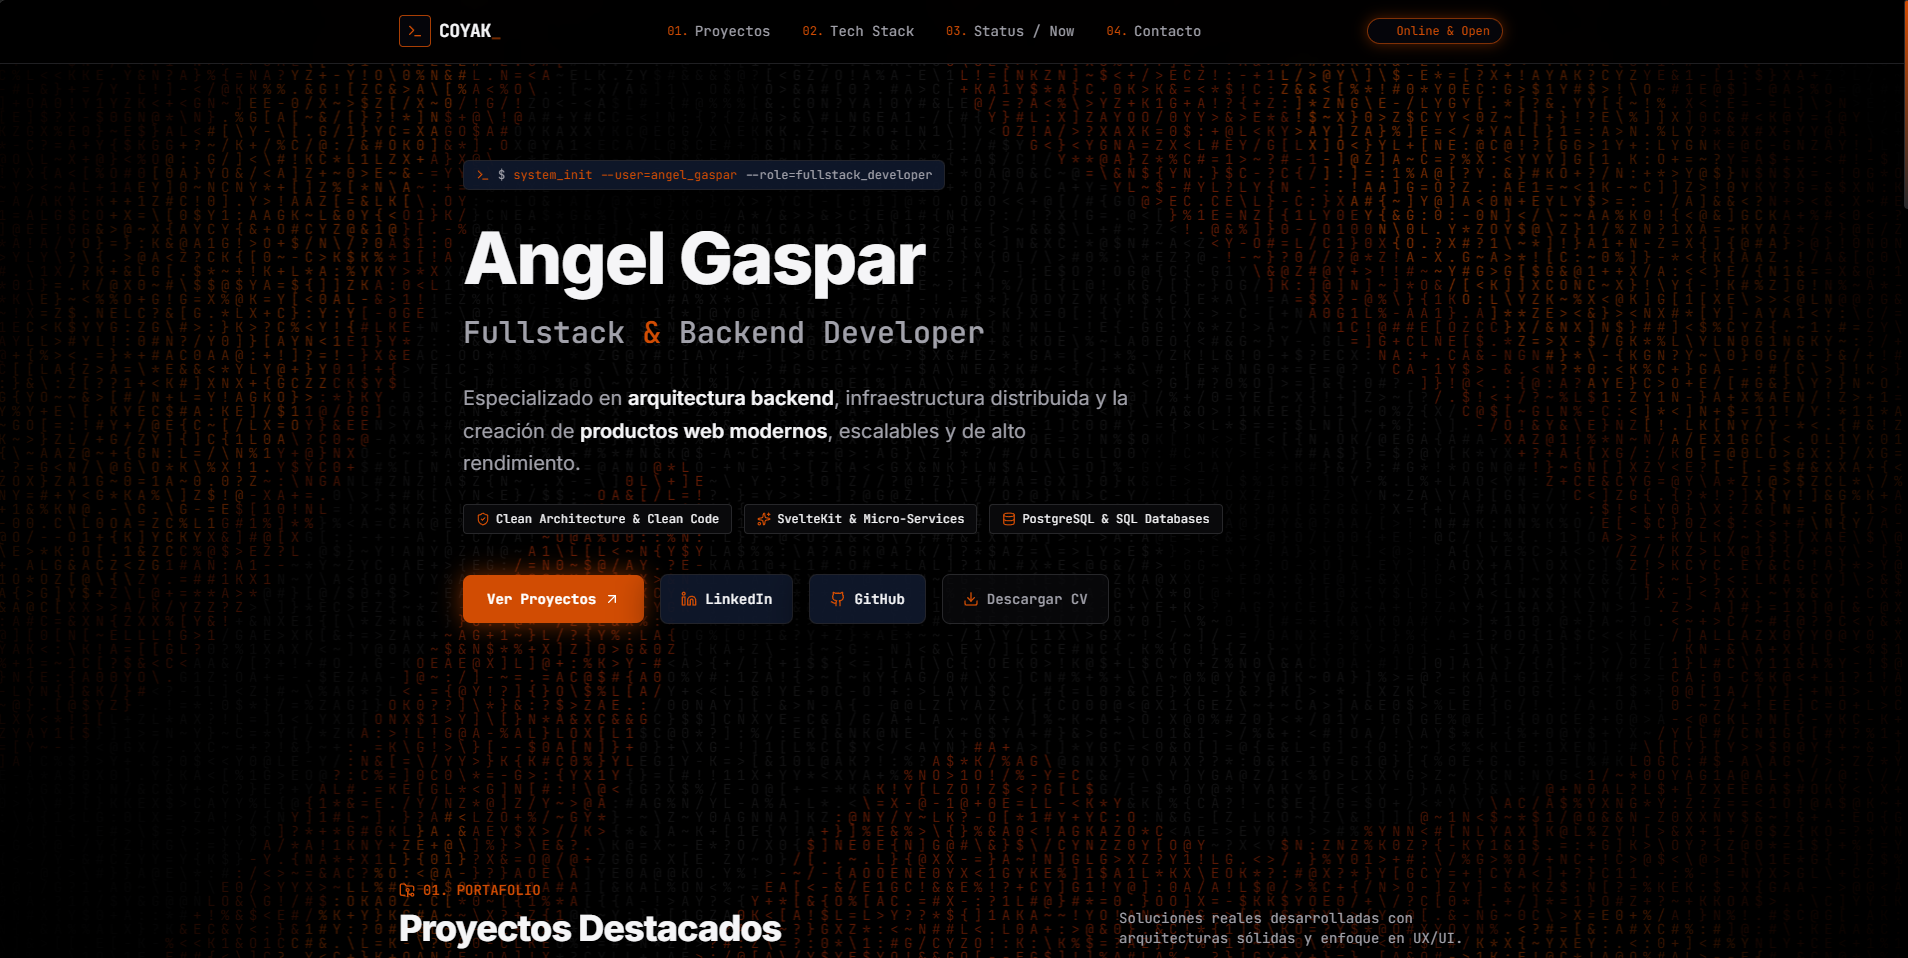
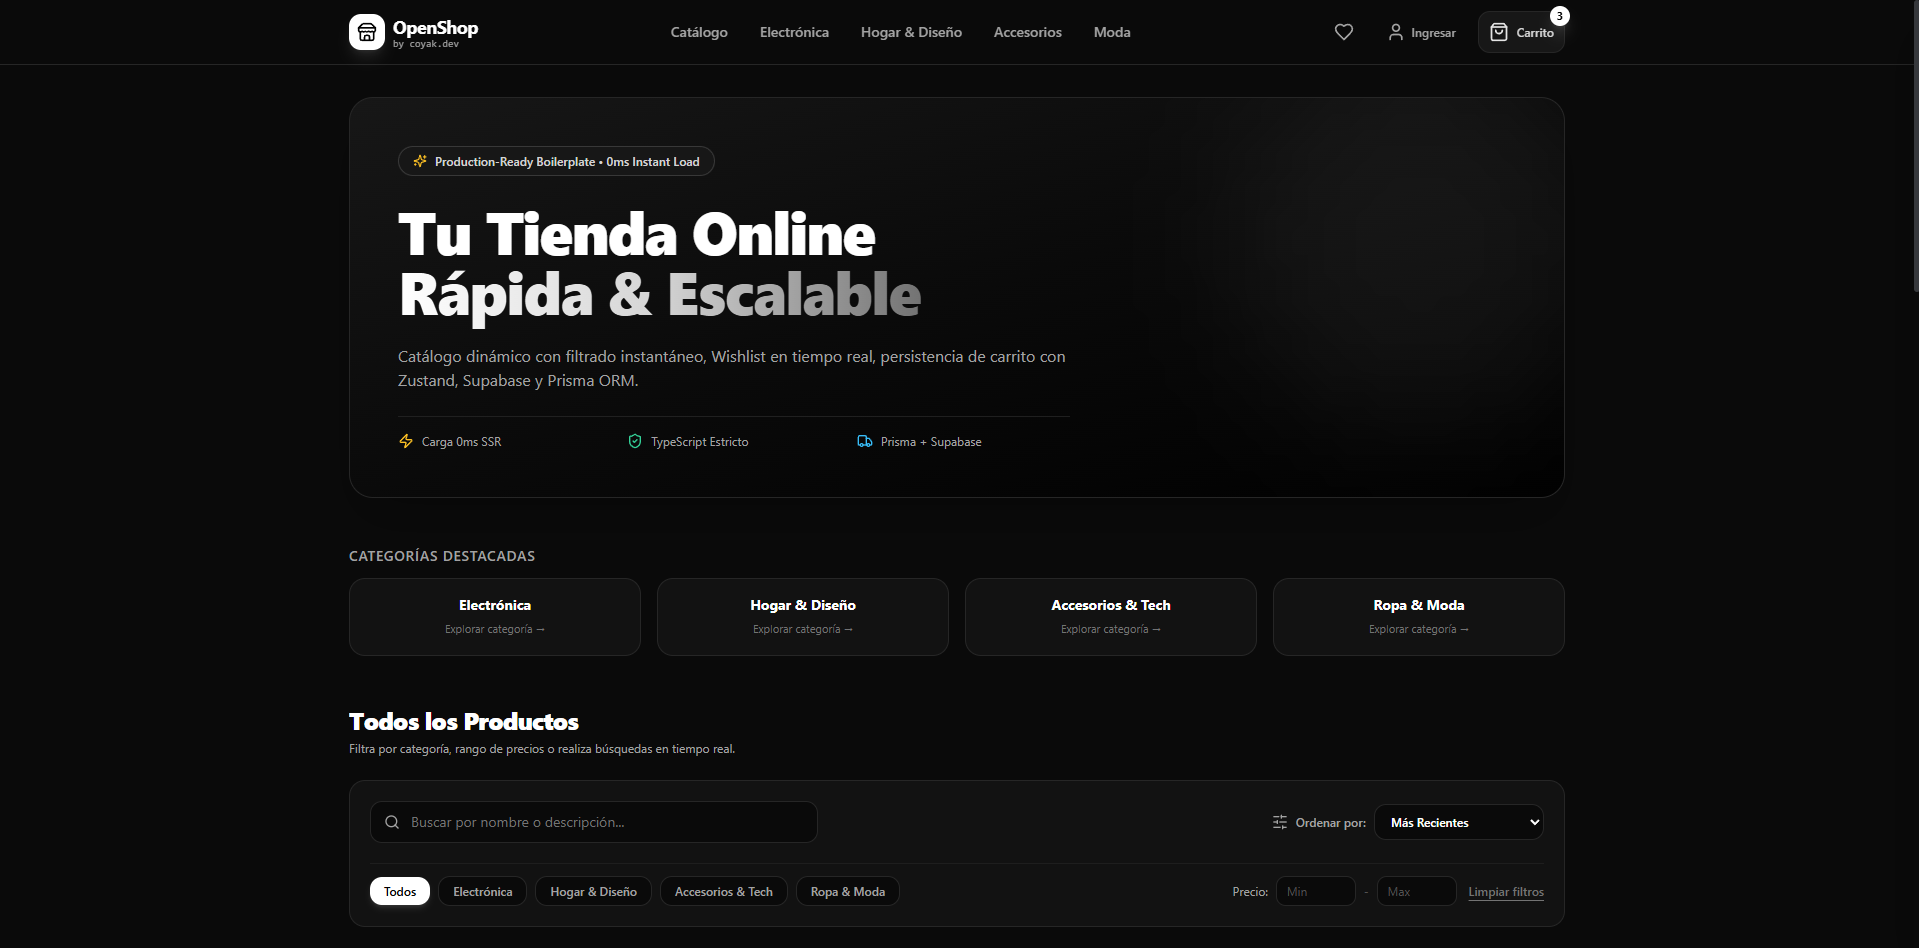
fix: sync real open-shop.png image asset and update README

diff --git a/README.md b/README.md
@@ -11,12 +11,18 @@
 
 ## 🚀 Proyectos Destacados
 
-### 1. 🪴 [OpenGarden](https://open-garden-pi.vercel.app/)
+### 1. 🛍 [OpenShop](https://open-shop-sic7.vercel.app/)
+* **Descripción**: Infraestructura de e-commerce de alto rendimiento con catálogo instantáneo a 0ms (SSR), filtrado multicriterio, Wishlist y Checkout interactivo.
+* **Tech Stack**: Next.js 14, TypeScript, Tailwind CSS, Zustand, Prisma, Supabase, Vercel.
+* **Demo en Vivo**: [open-shop-sic7.vercel.app](https://open-shop-sic7.vercel.app/)
+* **Repositorio**: [github.com/Coyak/Open-shop](https://github.com/Coyak/Open-shop)
+
+### 2. 🪴 [OpenGarden](https://open-garden-pi.vercel.app/)
 * **Descripción**: Plataforma *Digital Garden as a Service* para crear y explorar jardines digitales interconectados mediante grafos de conocimiento interactivos y bidireccionales en tiempo real.
 * **Tech Stack**: SvelteKit, TypeScript, Supabase, D3.js, Tailwind CSS, PostgreSQL.
 * **Demo en Vivo**: [open-garden-pi.vercel.app](https://open-garden-pi.vercel.app/)
 
-### 2. 🍽 [SaaS Gastronómico](https://gestion-restaurant-xi.vercel.app/)
+### 3. 🍽 [SaaS Gastronómico](https://gestion-restaurant-xi.vercel.app/)
 * **Descripción**: Solución SaaS *end-to-end* para restaurantes que automatiza comandas de cocina, carta digital en vivo, control de stock y métricas analíticas.
 * **Tech Stack**: React, Node.js, Express, PostgreSQL, Prisma ORM, JWT, Tailwind CSS.
 * **Demo en Vivo**: [gestion-restaurant-xi.vercel.app](https://gestion-restaurant-xi.vercel.app/)
